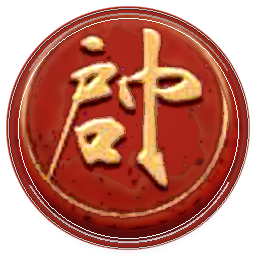
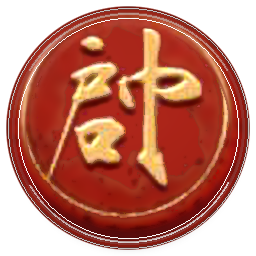
Smooth default piece set and enlarge endgame title

diff --git a/analysis-app/public/service-worker.js b/analysis-app/public/service-worker.js
@@ -1,14 +1,14 @@
-const CACHE_NAME = "ymegalodon-shell-v192";
+const CACHE_NAME = "ymegalodon-shell-v193";
 const STATIC_ASSETS = [
   "/",
   "/index.html",
   "/analysis.html",
-  "/portal.css?v=20260729-dark-only-v1",
+  "/portal.css?v=20260729-piece-smooth-v1",
   "/puzzle-data.js?v=20260727-puzzle-v1",
   "/endgame-data.js?v=20260728-endgame-v3",
-  "/portal.js?v=20260729-dark-only-v1",
-  "/styles.css?v=20260729-dark-only-v1",
-  "/app.js?v=20260729-dark-only-v1",
+  "/portal.js?v=20260729-piece-smooth-v1",
+  "/styles.css?v=20260729-piece-smooth-v1",
+  "/app.js?v=20260729-piece-smooth-v1",
   "/config.js",
   "/xiangqi-core.js",
   "/manifest.webmanifest",
@@ -60,20 +60,20 @@ const STATIC_ASSETS = [
   "/assets/pieces/sets/boquan1/black-king.png",
   "/assets/pieces/sets/boquan1/black-cannon.png",
   "/assets/pieces/sets/boquan1/black-pawn.png",
-  "/assets/pieces/sets/boquan2/red-rook.png",
-  "/assets/pieces/sets/boquan2/red-knight.png",
-  "/assets/pieces/sets/boquan2/red-elephant.png",
-  "/assets/pieces/sets/boquan2/red-advisor.png",
-  "/assets/pieces/sets/boquan2/red-king.png",
-  "/assets/pieces/sets/boquan2/red-cannon.png",
-  "/assets/pieces/sets/boquan2/red-pawn.png",
-  "/assets/pieces/sets/boquan2/black-rook.png",
-  "/assets/pieces/sets/boquan2/black-knight.png",
-  "/assets/pieces/sets/boquan2/black-elephant.png",
-  "/assets/pieces/sets/boquan2/black-advisor.png",
-  "/assets/pieces/sets/boquan2/black-king.png",
-  "/assets/pieces/sets/boquan2/black-cannon.png",
-  "/assets/pieces/sets/boquan2/black-pawn.png",
+  "/assets/pieces/sets/boquan2/red-rook.png?v=20260729-boquan2-smooth-v1",
+  "/assets/pieces/sets/boquan2/red-knight.png?v=20260729-boquan2-smooth-v1",
+  "/assets/pieces/sets/boquan2/red-elephant.png?v=20260729-boquan2-smooth-v1",
+  "/assets/pieces/sets/boquan2/red-advisor.png?v=20260729-boquan2-smooth-v1",
+  "/assets/pieces/sets/boquan2/red-king.png?v=20260729-boquan2-smooth-v1",
+  "/assets/pieces/sets/boquan2/red-cannon.png?v=20260729-boquan2-smooth-v1",
+  "/assets/pieces/sets/boquan2/red-pawn.png?v=20260729-boquan2-smooth-v1",
+  "/assets/pieces/sets/boquan2/black-rook.png?v=20260729-boquan2-smooth-v1",
+  "/assets/pieces/sets/boquan2/black-knight.png?v=20260729-boquan2-smooth-v1",
+  "/assets/pieces/sets/boquan2/black-elephant.png?v=20260729-boquan2-smooth-v1",
+  "/assets/pieces/sets/boquan2/black-advisor.png?v=20260729-boquan2-smooth-v1",
+  "/assets/pieces/sets/boquan2/black-king.png?v=20260729-boquan2-smooth-v1",
+  "/assets/pieces/sets/boquan2/black-cannon.png?v=20260729-boquan2-smooth-v1",
+  "/assets/pieces/sets/boquan2/black-pawn.png?v=20260729-boquan2-smooth-v1",
   "/assets/pieces/sets/boquan3/red-rook.png",
   "/assets/pieces/sets/boquan3/red-knight.png",
   "/assets/pieces/sets/boquan3/red-elephant.png",

diff --git a/analysis-app/public/index.html b/analysis-app/public/index.html
@@ -43,7 +43,7 @@
     <link rel="preload" href="/assets/sounds/an.mp3?v=20260713-audio-v9" as="audio" type="audio/mpeg">
     <link rel="preload" href="/assets/sounds/chieu.mp3?v=20260713-audio-v9" as="audio" type="audio/mpeg">
     <link rel="preload" href="/assets/sounds/tuyetsat1.mp3?v=20260713-audio-v9" as="audio" type="audio/mpeg">
-    <link rel="stylesheet" href="/portal.css?v=20260729-dark-only-v1">
+    <link rel="stylesheet" href="/portal.css?v=20260729-piece-smooth-v1">
   </head>
   <body>
     <header class="portal-header">
@@ -64,7 +64,7 @@
           <div class="skin-menu-title">Màu bàn</div>
           <button type="button" data-portal-board-skin="ice" role="menuitem">
             <span class="skin-swatch skin-swatch-ice" aria-hidden="true"></span>
-            Xanh băng
+            Xám xi măng
           </button>
           <button type="button" data-portal-board-skin="gold" role="menuitem">
             <span class="skin-swatch skin-swatch-gold" aria-hidden="true"></span>
@@ -76,11 +76,11 @@
           </button>
           <button type="button" data-portal-board-skin="stone" role="menuitem">
             <span class="skin-swatch skin-swatch-stone" aria-hidden="true"></span>
-            Xám xi măng
+            Trắng đá
           </button>
           <button type="button" data-portal-board-skin="pink" role="menuitem">
             <span class="skin-swatch skin-swatch-pink" aria-hidden="true"></span>
-            Đỏ rượu vang
+            Hồng hạc
           </button>
           <button type="button" data-portal-board-skin="dark" role="menuitem">
             <span class="skin-swatch skin-swatch-dark" aria-hidden="true"></span>
@@ -911,7 +911,7 @@
     <script src="/xiangqi-core.js"></script>
     <script src="/puzzle-data.js?v=20260727-puzzle-v1"></script>
     <script src="/endgame-data.js?v=20260728-endgame-v3"></script>
-    <script src="/portal.js?v=20260729-dark-only-v1"></script>
+    <script src="/portal.js?v=20260729-piece-smooth-v1"></script>
     <script>
       if ("serviceWorker" in navigator) {
         window.addEventListener("load", () => {
@@ -919,7 +919,7 @@
             registration.update?.();
           }).catch(() => {});
           navigator.serviceWorker.addEventListener("controllerchange", () => {
-            const reloadKey = "dmaihxcai-sw-reloaded-ymegalodon-shell-v192";
+            const reloadKey = "dmaihxcai-sw-reloaded-ymegalodon-shell-v193";
             if (sessionStorage.getItem(reloadKey) === "1") return;
             sessionStorage.setItem(reloadKey, "1");
             location.reload();

diff --git a/analysis-app/public/analysis.html b/analysis-app/public/analysis.html
@@ -33,7 +33,7 @@
     <link rel="preload" href="/assets/sounds/an.mp3?v=20260713-audio-v9" as="audio" type="audio/mpeg">
     <link rel="preload" href="/assets/sounds/chieu.mp3?v=20260713-audio-v9" as="audio" type="audio/mpeg">
     <link rel="preload" href="/assets/sounds/tuyetsat1.mp3?v=20260713-audio-v9" as="audio" type="audio/mpeg">
-    <link rel="stylesheet" href="/styles.css?v=20260729-dark-only-v1">
+    <link rel="stylesheet" href="/styles.css?v=20260729-piece-smooth-v1">
   </head>
   <body>
     <header class="app-header">
@@ -69,7 +69,7 @@
           <div class="skin-menu-title">Màu bàn</div>
           <button type="button" data-board-skin-choice="ice" role="menuitem">
             <span class="skin-swatch skin-swatch-ice" aria-hidden="true"></span>
-            Xanh băng
+            Xám xi măng
           </button>
           <button type="button" data-board-skin-choice="gold" role="menuitem">
             <span class="skin-swatch skin-swatch-gold" aria-hidden="true"></span>
@@ -81,11 +81,11 @@
           </button>
           <button type="button" data-board-skin-choice="stone" role="menuitem">
             <span class="skin-swatch skin-swatch-stone" aria-hidden="true"></span>
-            Xám xi măng
+            Trắng đá
           </button>
           <button type="button" data-board-skin-choice="pink" role="menuitem">
             <span class="skin-swatch skin-swatch-pink" aria-hidden="true"></span>
-            Đỏ rượu vang
+            Hồng hạc
           </button>
           <button type="button" data-board-skin-choice="dark" role="menuitem">
             <span class="skin-swatch skin-swatch-dark" aria-hidden="true"></span>
@@ -265,7 +265,7 @@
       </div>
     </div>
     <script src="/config.js"></script>
-    <script src="/app.js?v=20260729-dark-only-v1"></script>
+    <script src="/app.js?v=20260729-piece-smooth-v1"></script>
     <script>
       const backButton = document.getElementById("backButton");
       if (backButton) {
@@ -286,7 +286,7 @@
             registration.update?.();
           }).catch(() => {});
           navigator.serviceWorker.addEventListener("controllerchange", () => {
-            const reloadKey = "dmaihxcai-sw-reloaded-ymegalodon-shell-v192";
+            const reloadKey = "dmaihxcai-sw-reloaded-ymegalodon-shell-v193";
             if (sessionStorage.getItem(reloadKey) === "1") return;
             sessionStorage.setItem(reloadKey, "1");
             location.reload();

diff --git a/analysis-app/public/portal.css b/analysis-app/public/portal.css
@@ -5432,11 +5432,11 @@ body {
 }
 
 .piece-skin-swatch-default::before {
-  background-image: url("/assets/pieces/red-king.png?v=20260726-mobile-pieces-v1");
+  background-image: url("/assets/pieces/sets/boquan2/red-king.png?v=20260729-boquan2-smooth-v1");
 }
 
 .piece-skin-swatch-default::after {
-  background-image: url("/assets/pieces/black-king.png?v=20260726-mobile-pieces-v1");
+  background-image: url("/assets/pieces/sets/boquan2/black-king.png?v=20260729-boquan2-smooth-v1");
 }
 
 .piece-skin-swatch-boquan1::before {
@@ -5448,11 +5448,11 @@ body {
 }
 
 .piece-skin-swatch-boquan2::before {
-  background-image: url("/assets/pieces/sets/boquan2/red-king.png");
+  background-image: url("/assets/pieces/sets/boquan2/red-king.png?v=20260729-boquan2-smooth-v1");
 }
 
 .piece-skin-swatch-boquan2::after {
-  background-image: url("/assets/pieces/sets/boquan2/black-king.png");
+  background-image: url("/assets/pieces/sets/boquan2/black-king.png?v=20260729-boquan2-smooth-v1");
 }
 
 .piece-skin-swatch-boquan3::before {
@@ -6760,8 +6760,8 @@ body.mobile-room-entry.portal-mobile-mode[data-route="room"] #roomMobileBackBtn.
    canvas board and image pieces the weight of real table objects. */
 .endgame-title-logo {
   display: block;
-  width: min(560px, 74vw);
-  max-height: 118px;
+  width: min(820px, 86vw);
+  max-height: 176px;
   object-fit: contain;
   object-position: left center;
   filter:
@@ -7005,8 +7005,8 @@ body.mobile-room-entry.portal-mobile-mode[data-route="room"] #roomMobileBackBtn.
 
 @media (max-width: 760px) {
   .endgame-title-logo {
-    width: min(340px, 78vw);
-    max-height: 72px;
+    width: min(520px, 88vw);
+    max-height: 112px;
   }
 
   .room-board,
@@ -7194,7 +7194,9 @@ body.mobile-room-entry.portal-mobile-mode[data-route="room"] #roomMobileBackBtn.
 .motion-piece .piece-skin,
 .endgame-preview-piece {
   transform: none !important;
-  filter: none !important;
+  filter:
+    drop-shadow(0 4px 5px rgba(0, 0, 0, 0.26))
+    drop-shadow(0 1px 1px rgba(0, 0, 0, 0.18)) !important;
   object-fit: contain !important;
 }
 

diff --git a/analysis-app/public/portal.js b/analysis-app/public/portal.js
@@ -20,7 +20,7 @@
   const DEVICE_AVATAR_VERSION = "20260728-chibi-v1";
   const AVTCHIBI_ASSET_VERSION = "20260728-chibi-v1";
   const PUZZLE_MAP_ASSET_VERSION = "20260728-puzzle-map-v1";
-  const ASSET_WARMUP_VERSION = "20260729-dark-only-v1";
+  const ASSET_WARMUP_VERSION = "20260729-piece-smooth-v1";
   const MATCH_MODE_ASSET_VERSION = "20260728-match-modes-v2";
   const LOBBY_MENU_MODE = "menu";
   const LOBBY_MODES = new Set([LOBBY_MENU_MODE, "join", "create", "bot", "rank", "puzzle", "endgame", "opponent"]);
@@ -117,6 +117,7 @@
     avtchibiAsset("play8.png")
   ];
   const DEFAULT_PIECE_ASSET_VERSION = "20260726-mobile-pieces-v1";
+  const CUSTOM_PIECE_ASSET_VERSION = "20260729-boquan2-smooth-v1";
   const defaultPieceAsset = (file) => `assets/pieces/${file}?v=${DEFAULT_PIECE_ASSET_VERSION}`;
   const PIECE_IMAGES = {
     R: defaultPieceAsset("red-rook.png"),
@@ -166,7 +167,7 @@
       Object.fromEntries(
         Object.entries(CUSTOM_PIECE_FILE_NAMES).map(([piece, file]) => [
           piece,
-          `assets/pieces/sets/${set}/${file}`
+          `assets/pieces/sets/${set}/${file}${set === "boquan2" ? `?v=${CUSTOM_PIECE_ASSET_VERSION}` : ""}`
         ])
       )
     ])
@@ -207,8 +208,8 @@
   const RANK_ASSETS = RANK_TIERS.map((rank) => rank.icon);
   const ANALYSIS_PRELOAD_ASSETS = [
     "/analysis.html",
-    "/styles.css?v=20260729-dark-only-v1",
-    "/app.js?v=20260729-dark-only-v1",
+    "/styles.css?v=20260729-piece-smooth-v1",
+    "/app.js?v=20260729-piece-smooth-v1",
     "/puzzle-data.js?v=20260727-puzzle-v1",
     ENDGAME_DATA_ASSET,
     MOVE_SOUND_SOURCES.move,
@@ -6887,7 +6888,7 @@
     if (selectedSet !== "default") {
       return CUSTOM_PIECE_IMAGES_BY_SET[selectedSet]?.[piece] || PIECE_IMAGES[piece] || "";
     }
-    return PIECE_IMAGES[piece] || "";
+    return CUSTOM_PIECE_IMAGES_BY_SET.boquan2?.[piece] || PIECE_IMAGES[piece] || "";
   }
 
   function paintRoomMotionPiece(element, piece) {

diff --git a/analysis-app/public/app.js b/analysis-app/public/app.js
@@ -5,6 +5,7 @@ const PIECE_NAMES = {
   r: "\u8eca", n: "\u99ac", b: "\u8c61", a: "\u58eb", k: "\u5c07", c: "\u7832", p: "\u5352"
 };
 const DEFAULT_PIECE_ASSET_VERSION = "20260726-mobile-pieces-v1";
+const CUSTOM_PIECE_ASSET_VERSION = "20260729-boquan2-smooth-v1";
 const defaultPieceAsset = (file) => `assets/pieces/${file}?v=${DEFAULT_PIECE_ASSET_VERSION}`;
 const PIECE_IMAGES = {
   R: defaultPieceAsset("red-rook.png"),
@@ -54,7 +55,7 @@ const CUSTOM_PIECE_IMAGES_BY_SET = Object.fromEntries(
     Object.fromEntries(
       Object.entries(CUSTOM_PIECE_FILE_NAMES).map(([piece, file]) => [
         piece,
-        `assets/pieces/sets/${set}/${file}`
+        `assets/pieces/sets/${set}/${file}${set === "boquan2" ? `?v=${CUSTOM_PIECE_ASSET_VERSION}` : ""}`
       ])
     )
   ])
@@ -85,7 +86,7 @@ const AUTH_ACCESS_KEY_STORAGE_KEY = "dmaihxcai-access-key";
 const AUTH_DEVICE_ID_STORAGE_KEY = "dmaihxcai-device-id";
 const authDeviceId = readOrCreateAuthDeviceId();
 const ANALYSIS_ASSET_WARMUP_KEY = "dmaihxcai-analysis-assets-version";
-const ANALYSIS_ASSET_WARMUP_VERSION = "20260729-dark-only-v1";
+const ANALYSIS_ASSET_WARMUP_VERSION = "20260729-piece-smooth-v1";
 const BRAND_LOGO = "/assets/icons/ymegalodon-512.png";
 const BOARD_ASSET_VERSION = "20260729-bancomoi-v1";
 const boardSkinAsset = (file) => `/assets/board/${file}?v=${BOARD_ASSET_VERSION}`;
@@ -1383,7 +1384,7 @@ function pieceImageFor(piece) {
   if (selectedSet !== "default") {
     return CUSTOM_PIECE_IMAGES_BY_SET[selectedSet]?.[piece] || PIECE_IMAGES[piece];
   }
-  return PIECE_IMAGES[piece];
+  return CUSTOM_PIECE_IMAGES_BY_SET.boquan2?.[piece] || PIECE_IMAGES[piece];
 }
 
 function setupMobileActionStrip() {

diff --git a/analysis-app/public/styles.css b/analysis-app/public/styles.css
@@ -1351,11 +1351,11 @@ input:not([type]) {
 }
 
 .piece-skin-swatch-default::before {
-  background-image: url("/assets/pieces/red-king.png?v=20260726-mobile-pieces-v1");
+  background-image: url("/assets/pieces/sets/boquan2/red-king.png?v=20260729-boquan2-smooth-v1");
 }
 
 .piece-skin-swatch-default::after {
-  background-image: url("/assets/pieces/black-king.png?v=20260726-mobile-pieces-v1");
+  background-image: url("/assets/pieces/sets/boquan2/black-king.png?v=20260729-boquan2-smooth-v1");
 }
 
 .piece-skin-swatch-boquan1::before {
@@ -1367,11 +1367,11 @@ input:not([type]) {
 }
 
 .piece-skin-swatch-boquan2::before {
-  background-image: url("/assets/pieces/sets/boquan2/red-king.png");
+  background-image: url("/assets/pieces/sets/boquan2/red-king.png?v=20260729-boquan2-smooth-v1");
 }
 
 .piece-skin-swatch-boquan2::after {
-  background-image: url("/assets/pieces/sets/boquan2/black-king.png");
+  background-image: url("/assets/pieces/sets/boquan2/black-king.png?v=20260729-boquan2-smooth-v1");
 }
 
 .piece-skin-swatch-boquan3::before {
@@ -4422,6 +4422,13 @@ select,
 [data-theme-toggle],
 .mobile-theme-btn {
   display: none !important;
+}
+
+.piece.image-piece .piece-skin,
+.motion-piece .piece-skin {
+  filter:
+    drop-shadow(0 4px 5px rgba(0, 0, 0, 0.26))
+    drop-shadow(0 1px 1px rgba(0, 0, 0, 0.18)) !important;
 }
 
 @media (max-width: 760px) {
